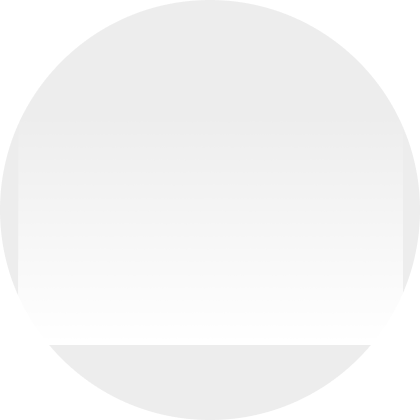
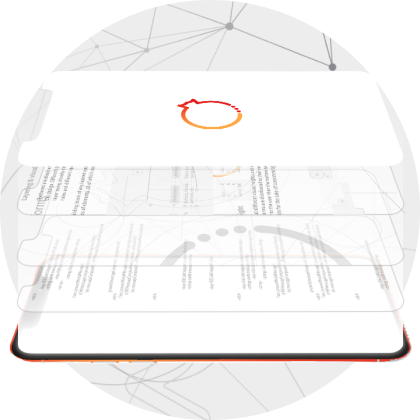
.

diff --git a/punicapp/src/assets/scss/app.scss b/punicapp/src/assets/scss/app.scss
@@ -327,7 +327,12 @@ html::-webkit-scrollbar-thumb {
 }
 
 .section {
-  background: #F4F2F4;
+  background-color: #F4F2F4;
+}
+.container-custom {
+  max-width: 1200px;
+  width: 100%;
+  margin: 0px auto;
 }
 
 .section-1 {
@@ -335,9 +340,11 @@ html::-webkit-scrollbar-thumb {
   min-height: 100vh;
   position: relative;
   border-bottom: 2px solid #D9D9D9;
-  & .container {
-    max-width: 1200px;
-    width: 100%;
+  background-image: url("../images/section-1/bg.png");
+  background-repeat: no-repeat;
+  background-position: center;
+  // background-size: 100%;
+  & .container-custom {
     & .title {
       text-align: center;
       position: absolute;
@@ -371,10 +378,9 @@ html::-webkit-scrollbar-thumb {
   & .bg-illustration {
     position: absolute;
     top: 50%;
-    left: 46%;
+    left: 44%;
     transform: translate(-100%, -50%);
     z-index: 1;
-    width: 500px;
   }
   & .icon-wrapper {
     position: absolute;
@@ -389,9 +395,15 @@ html::-webkit-scrollbar-thumb {
 }
 
 .section-2 {
-  padding: 92px 10px 32px 10px;
+  padding: 92px 10px 0px 10px;
   position: relative;
   overflow: hidden;
+  & .container-custom {
+    border-bottom: 1px solid #D9D9D9;
+    position: relative;
+    z-index: 10;
+    overflow: hidden;
+  }
   & .title {
     font-size: 4.5rem;
     line-height: 4rem;
@@ -453,7 +465,7 @@ html::-webkit-scrollbar-thumb {
       width: calc((100% / 3) + 20px);
       & .card-decor-1 {
         position: absolute;
-        bottom: -13.5px;
+        bottom: -13px;
         right: -13px;
       }
       & .card-decor-2 {
@@ -542,6 +554,7 @@ html::-webkit-scrollbar-thumb {
     position: relative;
     z-index: 5;
     margin-top: 150px;
+    padding: 40px 0px;
     & .info {
       max-width: 500px;
       margin: 0px auto;
@@ -551,6 +564,7 @@ html::-webkit-scrollbar-thumb {
         color: #545351;
         line-height: 3.1rem;
         font-family: 'g-Bold';
+        text-transform: none;
       }
       & .calculate {
         font-size: 1.5rem;
@@ -574,19 +588,81 @@ html::-webkit-scrollbar-thumb {
   & .calculator {
     position: absolute;
     bottom: -20px;
-    left: 100px;
+    left: 0px;
     z-index: 4;
   }
   & .bg-1 {
     position: absolute;
     bottom: 0px;
-    right: 0px;
+    right: 150px;
     z-index: 2;
   }
   & .bg-2 {
     position: absolute;
     bottom: 0px;
-    left: 150px;
+    left: 350px;
     z-index: 3;
+  }
+  & .bg-3 {
+    position: absolute;
+    top: 80px;
+    right: 60px;
+  }
+}
+
+
+.section-3 {
+  padding: 176px 10px 32px 10px;
+  position: relative;
+  overflow: hidden;
+  user-select: none;
+  & .title {
+    font-size: 4.5rem;
+    line-height: 4rem;
+    text-align: center;
+    color: #333230;
+    text-transform: uppercase;
+    font-family: 'g-Bold';
+    margin: 50px auto 20px auto;
+  }
+  & .wrapper {
+    width: 100%;
+    display: flex;
+    justify-content: space-between;
+    flex-wrap: wrap;
+    margin: 30px 0px;
+    & .item {
+      max-width: calc((100% / 3) - 90px);
+      width: 100%;
+      margin: 50px 0px;
+      position: relative;
+      &-text {
+        font-family: 'g-SemiBold';
+        font-size: 1.5rem;
+        line-height: 1.7rem;
+        color: #333230;
+        margin-top: 32px;
+      }
+      & .icon-1 {
+        position: absolute;
+        left: -40px;
+        top: 50px;
+      }
+      & .icon-2 {
+        position: absolute;
+        left: -40px;
+        bottom: -30px;
+      }
+      & .icon-3 {
+        position: absolute;
+        right: -30px;
+        top: 50px;
+      }
+    }
+  }
+  & .bg-icon-1 {
+    position: absolute;
+    top: 200px;
+    right: 60px;
   }
 }

diff --git a/punicapp/src/components/pages/home-sections/section-3.vue b/punicapp/src/components/pages/home-sections/section-3.vue
@@ -1,0 +1,47 @@
+<template>
+  <section class="section section-3">
+    <div class="container-custom">
+      <p class="title">Наши<br/>преимущества</p>
+      <div class="wrapper">
+        <div class="item" v-for="(item, index) in items" :key="item.text">
+          <img ondragstart="return false" :src="require(`../../../assets/images/section-3/item-icon-${index + 1}.png`)" alt="">
+          <p class="item-text">
+            {{ item.text }}
+          </p>
+          <img ondragstart="return false" class="icon-1" src="../../../assets/images/section-3/cross.svg" alt="">
+          <img ondragstart="return false" class="icon-2" src="../../../assets/images/section-3/cross.svg" alt="">
+          <img ondragstart="return false" class="icon-3" src="../../../assets/images/section-3/cross.svg" alt="">
+        </div>
+      </div>
+    </div>
+    <img ondragstart="return false" class="bg-icon-1" src="../../../assets/images/section-3/bg-icon-1.png" alt="">
+  </section>
+</template>
+
+<script>
+export default {
+  name: "Section-3",
+  data: () => ({
+    items: [
+      {
+        text: 'Ваше приложение — только ваше. Владельцем исключительных прав на приложение является заказчик.'
+      },
+      {
+        text: 'Разрабатываем приложения всех видов: нативные, кроссплатформенные, pwa, мобильные web-приложения. '
+      },
+      {
+        text: 'Поддержка и развитие. Обеспечиваем бесперебойную работу приложения и добавляем новый функционал.'
+      },
+      {
+        text: 'Полный цикл услуг. Поможем вам пройти весь путь — от идеи продукта до публикации. '
+      },
+      {
+        text: 'Всегда вовремя. Сдаём работу в оговоренные сроки.'
+      },
+      {
+        text: 'Высочайший сервис на всех этапах разработки.'
+      }
+    ]
+  })
+};
+</script>

diff --git a/punicapp/src/components/pages/home-sections/section-2.vue b/punicapp/src/components/pages/home-sections/section-2.vue
@@ -1,6 +1,6 @@
 <template>
   <section class="section section-2">
-    <div class="container">
+    <div class="container-custom">
       <p class="title">Наши услуги</p>
       <p class="subtitle">Разработка мобильных приложений и веб-проектов для бизнеса и стартапов</p>
       <div class="icons">
@@ -51,18 +51,21 @@
           <img ondragstart="return false" class="card-decor-1" src="../../../assets/images/section-2/card-decor-1.svg" alt="">
         </div>
       </div>
-    </div>
-    <div class="howMuch">
-      <div class="info">
-        <p class="title">Сколько стоит разработка?</p>
-        <button class="calculate">Рассчитать стоимость</button>
+      <div class="howMuch">
+        <div class="info">
+          <p class="title">Сколько стоит разработка?</p>
+          <button class="calculate">Рассчитать стоимость</button>
+        </div>
+      </div>
+      <div class="calculator">
+        <img src="../../../assets/images/section-2/calculator.png" alt="">
       </div>
     </div>
-    <div class="calculator">
-      <img src="../../../assets/images/section-2/calculator.png" alt="">
-    </div>
+    
     <img ondragstart="return false" class="bg-1" src="../../../assets/images/section-2/calculatorBackground.png" alt="">
     <img ondragstart="return false" class="bg-2" src="../../../assets/images/section-2/calculatorDecor.png" alt="">
+    <img ondragstart="return false" class="bg-3" src="../../../assets/images/section-2/bg-icon-1.svg" alt="">
+    
   </section>
 </template>
 

diff --git a/punicapp/src/views/Home.vue b/punicapp/src/views/Home.vue
@@ -2,6 +2,7 @@
   <div class="home">
     <section-one></section-one>
     <section-two></section-two>
+    <section-three></section-three>
   </div>
 </template>
 
@@ -9,11 +10,12 @@
 
 import sectionOne from '../components/pages/home-sections/section-1'
 import sectionTwo from '../components/pages/home-sections/section-2'
+import sectionThree from '../components/pages/home-sections/section-3'
 
 export default {
   name: 'Home',
   components: {
-    sectionOne, sectionTwo
+    sectionOne, sectionTwo, sectionThree
   }
 }
 </script>

diff --git a/punicapp/src/components/pages/home-sections/section-1.vue b/punicapp/src/components/pages/home-sections/section-1.vue
@@ -1,6 +1,6 @@
 <template>
   <section class="section section-1">
-    <div class="container">
+    <div class="container-custom">
       <div class="title">
         <p class="subtitle">
           Разработка мобильных приложений для бизнеса
